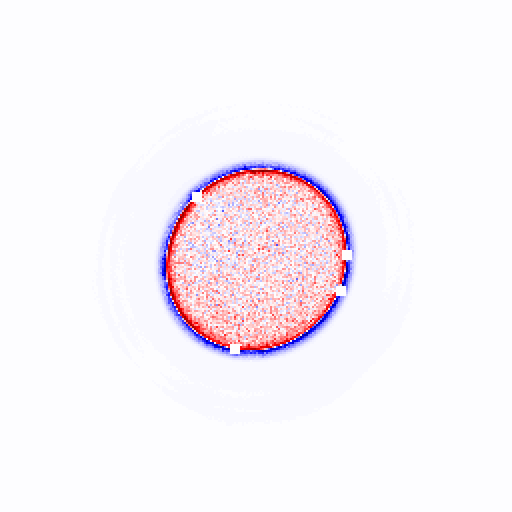
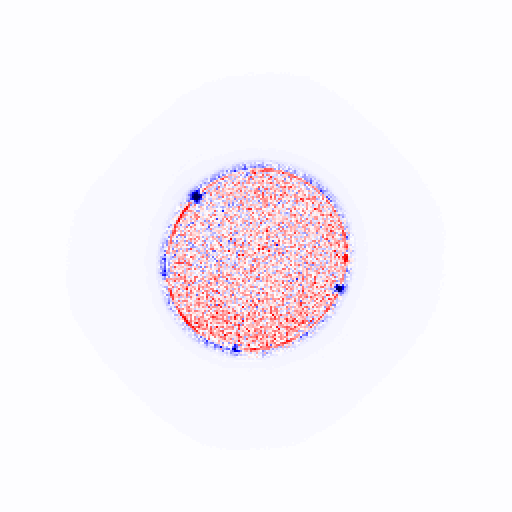
bug fixes

Changed region(s): [[0.2812, 0.3125, 0.7188, 0.7188]]

diff --git a/optics/mtf.py b/optics/mtf.py
@@ -110,10 +110,10 @@ def getmtfkernel(lmtf, ndim, fsca=1.):
     # mtf grid calculation
     for j in range(0,ndim[0]): # loop rows
         fy2 = fy[j]**2 # squared row frequency
-        scy = np.sinc(np.pi * fy[j]) # row sinc
+        scy = np.sinc(fy[j]) # row sinc
         for i in range(0,ndim[1]): # loop columns
             fm2 = fx[i]**2 + fy2 # frequency modulus squared
-            scx = np.sinc(np.pi * fx[i]) # column sinc
+            scx = np.sinc(fx[i]) # column sinc
             fm = np.sqrt(fm2) # frequency modulus
             fms = fm*fsca # scaled frequency modulus
             # prepare linear interpolation on radial mtf list

diff --git a/optics/aperture.py b/optics/aperture.py
@@ -96,7 +96,7 @@ def aperture_dist3(q=np.array([0.,0.]), q0=np.array([0.,0.]), qlim=1., qsmt=0., 
                 arg = np.pi*np.dot(dqd,dqe) / qs # distance from the edge rescaled to Pi/qsmt
                 return 0.5*(1. - np.tanh(arg)) # sigmoid edge transition from 1 to 0 
             else: # the edge is sharp
-                if np.dot(dql,dql) > dqm2: # the query point is inside the aperture radius
+                if np.dot(dql3,dql3) > dqm2: # the query point is inside the aperture radius
                     return 1.
                 else: # the query point is outside the aperture radius
                     return 0.
